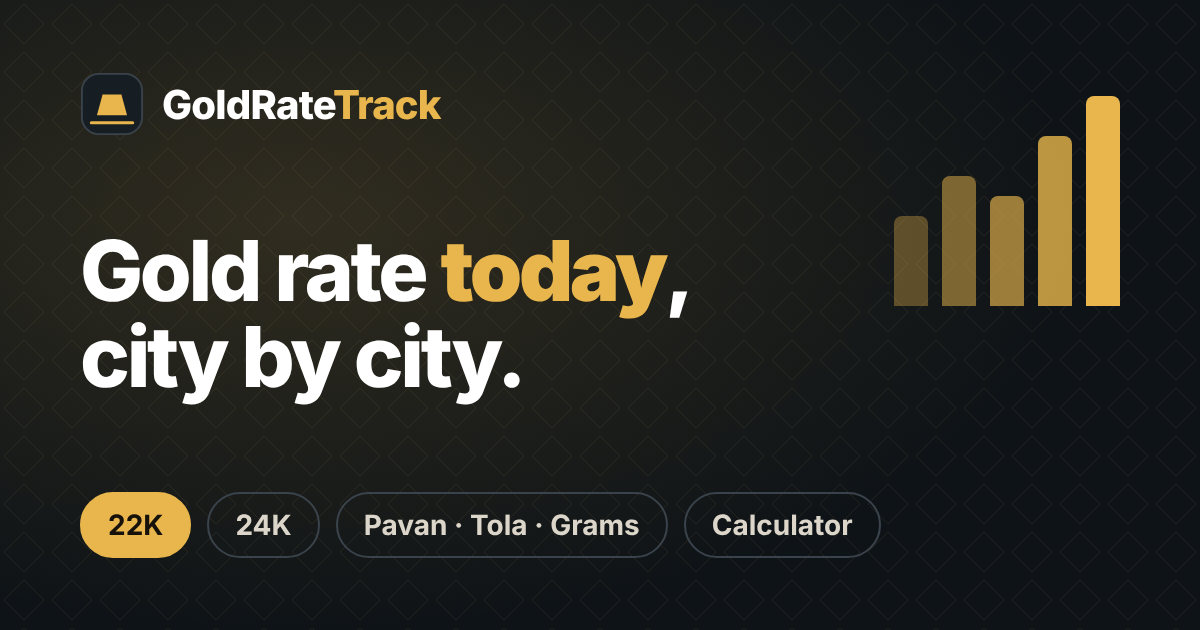
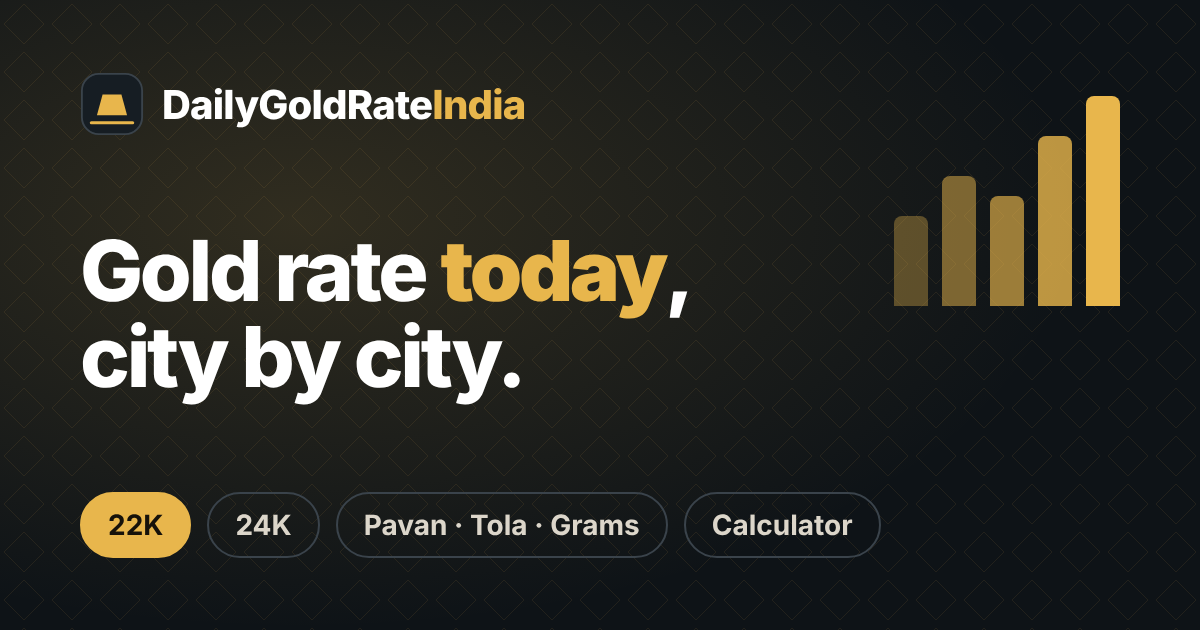
Rebrand to Daily Gold Rate India (dailygoldrateindia.com); daily rate form
- Brand, logo, share image, manifest and schema now use Daily Gold Rate India
- Indexing turns on automatically only on https://dailygoldrateindia.com with real rates
- Run workflow form to enter today's rates; first entry replaces all sample data
- Cities without their own rate show the national rate, labelled as such
- IBJA page, charts and history work from the first two real days
- README: DNS records, Pages custom domain and daily rate steps

Claude-Session: https://claude.ai/code/session_017h3yQCasX31iGZ2W5MqYgZ

Changed region(s): [[0.1233, 0.1206, 0.4625, 0.2111]]

diff --git a/public/assets/site.css b/public/assets/site.css
@@ -1,4 +1,4 @@
-/* Gold Rate Track: one stylesheet for every page. 8 px spacing, Inter, rate-board palette. */
+/* Daily Gold Rate India: one stylesheet for every page. 8 px spacing, Inter, rate-board palette. */
 @font-face{font-family:'Inter';src:url(fonts/inter-var.woff2) format('woff2');font-weight:400 800;font-style:normal;font-display:swap}
 :root{
   --ink:#12161A;--body:#2A333B;--muted:#4A5560;--line:#DDE1DC;--line2:#E8EBE6;

diff --git a/public/assets/app.js b/public/assets/app.js
@@ -1,4 +1,4 @@
-/* Gold Rate Track: progressive enhancement. Every rate is already in the HTML; this file only adds interaction. */
+/* Daily Gold Rate India: progressive enhancement. Every rate is already in the HTML; this file only adds interaction. */
 (function () {
   'use strict';
   var $ = function (s, r) { return (r || document).querySelector(s); };

diff --git a/README.md b/README.md
@@ -1,8 +1,8 @@
-# Gold Rate Track (goldratetrack.com)
+# Daily Gold Rate India (dailygoldrateindia.com)
 
 A fast, SEO-first website for daily gold rates in India. Pages are plain HTML built from one data file, so every rate is in the page source: Google reads it on the first crawl and phones load it instantly. A small script adds the city filter, the saved-city bar and the calculator.
 
-> **Status: review build.** Rates are sample data (27 October 2026), [bracketed] details are placeholders, and every page says `noindex` until launch. See [Before launch](#before-launch).
+> **Status: review build.** Rates are sample data (27 October 2026), [bracketed] details are placeholders, and every page says `noindex` until real rates are entered on https://dailygoldrateindia.com. See [Before launch](#before-launch).
 
 ## Pages (31)
 
@@ -29,7 +29,7 @@ A city page is published only when we have that city's own rate. Month pages are
 - **JSON-LD**: Organization and WebSite (home), WebPage on every page, BreadcrumbList, FAQPage (matching the visible questions), Dataset on month pages, ItemList on the cities page, WebApplication on the calculator.
 - **sitemap.xml** with `lastmod` and hreflang alternates; **robots.txt** pointing to it.
 - **Open Graph and Twitter** tags with a 1200×630 image; web app manifest and home-screen icons.
-- `noindex` on every page until `SITE_INDEX=true`, so the review address never competes with the real domain.
+- **Indexing is automatic:** pages are indexable only when built for https://dailygoldrateindia.com with real (non-sample) rates. The github.io address is always `noindex`. `SITE_INDEX=true|false` overrides.
 
 `node scripts/check.mjs` checks all of the above, plus headings, labels, duplicate ids, internal links and anchors, on every build. The GitHub workflow will not publish if a check fails.
 
@@ -42,31 +42,44 @@ npm run check      # build, then run every SEO and quality check
 
 ## Daily rates
 
-The workflow runs on every push and at **12:20 PM IST, Monday to Saturday**.
+**By hand, from a phone or laptop (no coding):** GitHub → Actions → **Build and deploy** → **Run workflow**, fill the boxes, press Run. In about two minutes the site is rebuilt with the new rates.
 
-- **By hand:** edit `data/rates.json` and push. The build refuses data that does not add up.
-- **Automatic:** add a repository secret `RATES_FEED_URL` (and `RATES_FEED_TOKEN` if needed). `scripts/update-rates.mjs` merges the feed, commits it and the site rebuilds. Use a source licensed for republishing.
+| Box | Example | Notes |
+|---|---|---|
+| 24K / 22K / 18K per gram | `14329` / `13135` / `10747` | Required. Commas and ₹ are fine. |
+| Silver per kg | `181000` | Needed the first time; after that, blank keeps yesterday's. |
+| IBJA 999 | `14310` | Optional. Defaults to the 24K rate. |
+| Yesterday | `14200/13017/10650` | **First time only** (24K/22K/18K), so today's change is right. |
+| Cities | `chennai=14340/13145/10760; mumbai=…` | Optional. 24K/22K/18K. Cities not listed show the national rate, labelled "local board rate not yet available". |
+| Date, note | `2026-11-03` | Optional. Date defaults to today (IST). |
+
+The form refuses numbers that do not add up (24K must be above 22K, 22K above 18K; city names must match). Each entry is committed to `data/rates.json`, and the last 30 days build the history pages and charts.
+
+**Automatic:** add a repository secret `RATES_FEED_URL` (and `RATES_FEED_TOKEN`). The scheduled run at 12:20 PM IST, Monday to Saturday, merges the feed through `scripts/merge-rates.mjs`. Use a source licensed for republishing.
 
 ## Settings (GitHub → Settings → Secrets and variables → Actions → Variables)
 
 | Variable | Effect |
 |---|---|
-| `SITE_INDEX` = `true` | Lets search engines index the site. Set only on the real domain at launch. |
+| `SITE_INDEX` = `true` / `false` | Overrides the automatic indexing rule. Normally leave it unset. |
 | `ADSENSE_CLIENT` = `ca-pub-…` | Turns on the ad slots (one under the city table, two in the side rail). Leave empty until AdSense approves the site. |
 
-## Moving to goldratetrack.com
+## Going live on dailygoldrateindia.com
 
-1. Buy the domain; also buy goldratetrack.in and forward it to the .com.
-2. GitHub → Settings → Pages → Custom domain: `goldratetrack.com`, tick "Enforce HTTPS". Add the DNS records GitHub shows.
-3. The next build uses the new address automatically for canonicals, hreflang and the sitemap.
-4. Then set `SITE_INDEX=true`, and submit `https://goldratetrack.com/sitemap.xml` in Google Search Console and Bing Webmaster Tools.
+1. **DNS at the registrar** (delete any old A/CNAME records for `@` and `www` first):
+   - `A` `@` → `185.199.108.153`, `185.199.109.153`, `185.199.110.153`, `185.199.111.153`
+   - `AAAA` `@` → `2606:50c0:8000::153`, `2606:50c0:8001::153`, `2606:50c0:8002::153`, `2606:50c0:8003::153`
+   - `CNAME` `www` → `thilakar-j.github.io`
+2. GitHub → Settings → Pages → Custom domain: `dailygoldrateindia.com` → Save. When the DNS check is green, tick **Enforce HTTPS**.
+3. Enter today's rates with **Run workflow** (above). That build uses https://dailygoldrateindia.com for canonicals, hreflang, schema and the sitemap, and turns indexing on.
+4. Submit `https://dailygoldrateindia.com/sitemap.xml` in Google Search Console (Domain property) and Bing Webmaster Tools.
 
 ## Before launch
 
-- [ ] Licensed rate feed connected; `"sample": false` in the data (the feed script sets it).
-- [ ] Every [bracketed] placeholder filled: owner name and address, rate sources per city, grievance officer.
-- [ ] `contact@goldratetrack.com` mailbox working.
+- [ ] Real rates entered (form or feed); `"sample": false` in the data.
+- [ ] Every [bracketed] placeholder filled: owner name, city and postal address, grievance officer, courts' city.
+- [ ] `contact@dailygoldrateindia.com` mailbox working.
 - [ ] Tamil text checked by a Tamil reader.
 - [ ] Privacy Policy and Disclaimer reviewed by an Indian lawyer.
-- [ ] Custom domain live, then `SITE_INDEX=true`, then sitemap submitted.
+- [ ] Custom domain live with HTTPS, then sitemap submitted.
 - [ ] AdSense applied for in week 3 to 4; `ADSENSE_CLIENT` set after approval.
